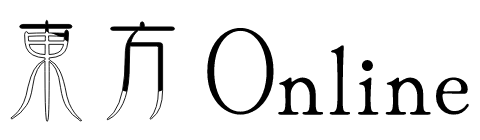
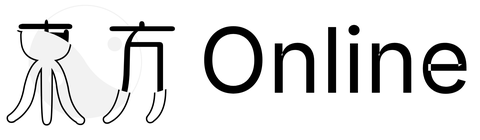
调整顶栏文字并更新字标

diff --git a/launcher/app/components/launcher/LauncherMasthead.tsx b/launcher/app/components/launcher/LauncherMasthead.tsx
@@ -173,9 +173,9 @@ export function LauncherMasthead(props: LauncherMastheadProps) {
       {icon}{label}
     </a>
   </DropdownMenu.Item>);
-  const menuTrigger = <Button ref={trigger} variant="ghost" size="icon" className="masthead-action masthead-menu-toggle"
+  const menuTrigger = <Button ref={trigger} variant="ghost" size="icon" className="masthead-action masthead-text-action masthead-menu-toggle"
     id="mastheadMenuToggle" aria-label={t('nav.more')} disabled={!interactive}>
-    <NavigationIcon name="menu"/>
+    <NavigationIcon name="menu"/><span className="masthead-action-label">{t('nav.more')}</span>
   </Button>;
   return <>
     <header
@@ -227,33 +227,24 @@ export function LauncherMasthead(props: LauncherMastheadProps) {
           {t('nav.oldSiteMigration')}
         </a>
         <MastheadTooltip label={faqLink.label}>
-          <Button asChild variant="ghost" size="icon" className="masthead-action book-top-faq">
-            <a href={faqLink.href}>
-              <span className="sr-only">{faqLink.label}</span>
-              <svg aria-hidden="true" viewBox="0 0 24 24" fill="none" stroke="currentColor" strokeWidth="1.8" strokeLinecap="round" strokeLinejoin="round">
-                <circle cx="12" cy="12" r="10" />
-                <g className="book-faq-question">
-                  <path d="M9.1 9a3 3 0 0 1 5.8 1c0 2-3 2.5-3 4" />
-                  <path d="M12 17h.01" />
-                </g>
-              </svg>
-            </a>
+          <Button asChild variant="ghost" size="sm" className="masthead-action masthead-text-action book-top-faq">
+            <a href={faqLink.href} aria-label={faqLink.label}><span className="masthead-action-label">{t('nav.help')}</span></a>
           </Button>
         </MastheadTooltip>
         <MastheadTooltip label={feedbackLink.label}>
-          <Button asChild variant="ghost" size="icon" className="masthead-action book-top-feedback">
-            <a href={feedbackLink.href} aria-label={feedbackLink.label} target="_blank" rel="noopener noreferrer">{feedbackLink.icon}</a>
+          <Button asChild variant="ghost" size="sm" className="masthead-action masthead-text-action book-top-feedback">
+            <a href={feedbackLink.href} aria-label={feedbackLink.label} target="_blank" rel="noopener noreferrer"><span className="masthead-action-label">{feedbackLink.label}</span></a>
           </Button>
         </MastheadTooltip>
         {props.donationAvailable !== false && (
           <MastheadTooltip label={t('nav.donate')}>
-            <Button variant="ghost" size="icon" className="masthead-action book-top-donation"
+            <Button variant="ghost" size="sm" className="masthead-action masthead-text-action book-top-donation"
               aria-label={t('nav.donate')} onClick={props.onDonation} disabled={!interactive}>
-              <HeartIcon aria-hidden="true"/>
+              <span className="masthead-action-label">{t('nav.support')}</span>
             </Button>
           </MastheadTooltip>
         )}
-        <BookThemeToggle interactive={interactive} surfaces={themeSurfaces} tooltip />
+        <BookThemeToggle interactive={interactive} surfaces={themeSurfaces} tooltip textLabel={t('nav.theme')}/>
         {!compact && <div hidden ref={language}>
           {props.languageControl}
         </div>}
@@ -363,7 +354,7 @@ export function LauncherMasthead(props: LauncherMastheadProps) {
                     <DropdownMenu.Item className="ui-menu-item" id="firstUseNoticeOpen" onSelect={props.onFirstUse}>
                       <NavigationIcon name="firstUse"/>{t('nav.firstUseNotice')}
                     </DropdownMenu.Item>
-                    {menuLinks([...helpLinks, ...handbookLink])}
+                    {menuLinks([...helpLinks, feedbackLink, ...handbookLink])}
                   </DropdownMenu.Group>
                   <DropdownMenu.Separator className="ui-menu-separator" />
                   <DropdownMenu.Group aria-label={t('nav.site')}>

diff --git a/launcher/app/components/launcher/launcher-chrome.css b/launcher/app/components/launcher/launcher-chrome.css
@@ -7,6 +7,7 @@
   .masthead.book-masthead {
     --masthead-icon-size:14px;
     --masthead-optical-offset:2px;
+    --masthead-label-offset:-3px;
     grid-template-columns:minmax(0,1fr) auto minmax(0,1fr);
     grid-template-rows:43px;
     gap:0 12px;
@@ -14,10 +15,9 @@
     padding-inline:max(28px,env(safe-area-inset-left)) max(28px,env(safe-area-inset-right));
   }
   .book-masthead .book-brand {min-height:0;height:43px}
-  .book-masthead .masthead-links {grid-area:1 / 1;justify-self:start;align-self:stretch;align-items:center;margin-inline-start:112px}
-  .book-masthead .masthead-links::before {content:"";width:1px;height:11px;margin-inline:0 6px;background:var(--kit-control-border);translate:0 var(--masthead-optical-offset)}
-  .book-masthead .masthead-links > .masthead-action {width:32px;height:32px}
-  .book-masthead .masthead-links > .masthead-action > svg {width:var(--masthead-icon-size);height:var(--masthead-icon-size);translate:0 var(--masthead-optical-offset)}
+  .book-masthead .masthead-links {grid-area:1 / 1;justify-self:start;align-self:stretch;align-items:center;margin-inline-start:104px}
+  .book-masthead .masthead-links > .masthead-text-action {width:auto;height:32px;min-height:0;padding-inline:6px;gap:0;font:500 14px/1 var(--kit-font);translate:0 var(--masthead-label-offset)}
+  .book-masthead .masthead-menu-toggle > svg {display:none}
   .book-masthead .masthead-links > .masthead-link {display:none}
   .book-masthead .book-main-nav {align-items:center;gap:2px}
   .book-masthead .book-main-nav :is(a,button) {min-width:74px;min-height:32px;padding:0 10px;border:0;border-radius:5px;font-size:14px;font-weight:500}
@@ -110,9 +110,9 @@
     }
     html[data-ui-home] body:not(.mp-room-active) .main.library-layout {min-height:0}
     .book-masthead .masthead-links {grid-area:1 / 1;margin:0}
-    .book-masthead .masthead-links::before {display:none}
-    .book-masthead .masthead-links > .masthead-menu-toggle {width:44px;height:44px}
-    .book-masthead .masthead-links > .masthead-menu-toggle > svg {width:20px;height:20px;translate:none}
+    .book-masthead .masthead-links > .masthead-menu-toggle {width:44px;height:44px;padding:0;translate:none}
+    .book-masthead .masthead-links > .masthead-menu-toggle > svg {display:block;width:20px;height:20px;translate:none}
+    .masthead-menu-toggle > .masthead-action-label {display:none}
     .masthead-library-search {display:block;grid-area:1 / 2;align-self:center;min-width:0}
     .masthead-library-search > .book-compact-search {height:34px;padding-inline:10px 2px;border-color:transparent;border-radius:999px;background:var(--kit-secondary)}
     .masthead-library-search > .book-compact-search:focus-within {border-color:var(--kit-ring)}
@@ -127,3 +127,14 @@
     .launcher-bottom-navigation .site-navigation-link > svg {transition:none}
   }
   .less-motion .launcher-bottom-navigation .site-navigation-link > svg {transition:none}
+
+  @media (780px < width <= 1250px) {
+    .book-masthead .masthead-links > .book-top-feedback {display:none}
+  }
+  @media (780px < width <= 1100px) {
+    .book-masthead .masthead-links > .book-top-donation {display:none}
+  }
+  @media (780px < width <= 1000px) {
+    .book-masthead .book-brand {display:none}
+    .book-masthead .masthead-links {margin-inline-start:0}
+  }

diff --git a/launcher/app/components/launcher/BookThemeToggle.tsx b/launcher/app/components/launcher/BookThemeToggle.tsx
@@ -47,8 +47,8 @@ function applyTheme(value: 'light' | 'dark', animate: boolean) {
   }, 180);
 }
 
-export function BookThemeToggle({interactive = true, row = false, tooltip = false, rowLabel, inlineChoices = false, surfaces}: {
-  interactive?: boolean; row?: boolean; tooltip?: boolean; rowLabel?: string; inlineChoices?: boolean; surfaces?: readonly BackgroundSurface[];
+export function BookThemeToggle({interactive = true, row = false, tooltip = false, rowLabel, inlineChoices = false, surfaces, textLabel}: {
+  interactive?: boolean; row?: boolean; tooltip?: boolean; rowLabel?: string; inlineChoices?: boolean; surfaces?: readonly BackgroundSurface[]; textLabel?: string;
 }) {
   const {locale, t} = useLocale();
   const [dark, setDark] = useState(true);
@@ -73,9 +73,9 @@ export function BookThemeToggle({interactive = true, row = false, tooltip = fals
     if (trigger.current) impressTheme(trigger.current);
   };
   const icon = <NavigationIcon name={dark ? 'moon' : 'sun'}/>;
-  const button = <UiButton ref={trigger} type="button" variant="ghost" size={row ? "row" : "icon"} className={row ? "settings-navigation-row masthead-overview-theme" : "masthead-action book-theme-toggle [&_svg]:size-5"} disabled={!interactive || !ready}
+  const button = <UiButton ref={trigger} type="button" variant="ghost" size={row ? "row" : textLabel ? "sm" : "icon"} className={row ? "settings-navigation-row masthead-overview-theme" : `masthead-action book-theme-toggle${textLabel ? " masthead-text-action" : " [&_svg]:size-5"}`} disabled={!interactive || !ready}
     aria-label={label} aria-haspopup="dialog" onClick={() => setOpen(true)} title={tooltip ? undefined : label}>
-    {row ? <SettingsRowContent icon={inlineChoices ? undefined : icon}>{label}</SettingsRowContent> : icon}
+    {row ? <SettingsRowContent icon={inlineChoices ? undefined : icon}>{label}</SettingsRowContent> : textLabel ? <span className="masthead-action-label">{textLabel}</span> : icon}
   </UiButton>;
   return <>{inlineChoices && <BaseThemeChoices dark={dark} onThemeChange={changeTheme}/>}
     {tooltip ? <MastheadTooltip label={label}>{button}</MastheadTooltip> : button}

diff --git a/launcher/docs/ui-controls.md b/launcher/docs/ui-controls.md
@@ -12,7 +12,7 @@
 
 | 修改位置 | 实现 | 交互边界 |
 | --- | --- | --- |
-| 全局导航 | [LauncherMasthead](../app/components/launcher/LauncherMasthead.tsx)、[SiteBottomNavigation](../app/components/launcher/SiteNavigation.tsx) | 桌面顶栏 44 px，单机和联机居中。780 px 及以下，仅单机书库显示顶栏，单机、联机、主页共用底部导航。二级页使用透明返回按钮。 |
+| 全局导航 | [LauncherMasthead](../app/components/launcher/LauncherMasthead.tsx)、[SiteBottomNavigation](../app/components/launcher/SiteNavigation.tsx) | 桌面顶栏 44 px，帮助、反馈、支持、主题和更多使用文字入口，按字标 Online 的可见字形对齐。单机和联机居中。780 px 及以下，仅单机书库显示顶栏，单机、联机、主页共用底部导航。二级页使用透明返回按钮。 |
 | 搜索与抽屉 | [LibrarySearch](../app/components/launcher/LibrarySearch.tsx)、[MastheadOverview](../app/components/launcher/MastheadOverview.tsx) | 两种搜索位置共用查询值。手机抽屉从左进入，默认按帮助、站点、设置分组。界面语言和关于本站各有一级返回，主题入口使用共用主题设置窗。游客可以打开抽屉。 |
 | 书库 | [BookLibrary](../app/components/launcher/BookLibrary.tsx) | 桌面书库与游戏详情共用分类侧栏，系列与玩法独立分类，同一作品可出现在多个分类中。分类筛选与展开独立，单机和联机分别记住展开状态。封面卡使用竖版，桌面最多五列。侧栏底部固定提供下载与附加内容入口，分类、视图和排序沿用共同工具栏。 |
 | 联机大厅 | [LobbySurface](../app/components/launcher/LobbySurface.tsx)、[BookDirectoryGames](../app/components/launcher/BookDirectoryGames.tsx) | 桌面与单机共用侧栏规格和作品行。手机用横向封面条。两端共用作品选单、筛选状态和收藏。 |

diff --git a/launcher/ASSETS.md b/launcher/ASSETS.md
@@ -2,6 +2,10 @@
 
 本文记录 Launcher 图像、字体的来源、Host 生成方式和发布位置。许可证见 [`THIRD_PARTY.md`](THIRD_PARTY.md)；保留随资源提供的上游许可证文件。
 
+## 站名字标
+
+字标源文件为提供的[定稿 SVG](public/assets/launcher-wordmark.svg)，包含字形路径、阴阳玉和镂空遮罩。顶栏沿用导出的深浅两张透明 PNG，由站内主题选择。
+
 ## 游戏封面
 
 书库卡片复用已登记的原作封面。界面使用的 WebP 位于 `app/components/launcher/book-covers/`；TH01–TH04 使用原包装扫描的 960px 方形裁剪，其余封面最长边为 640px，质量为 82。同目录 `sources.json` 记录素材来源与文件的 SHA-256。Vite 将这些封面纳入前端资源图与离线缓存。封面素材不决定作品是否展示，卡片成员始终由主项目的发布目录决定。
